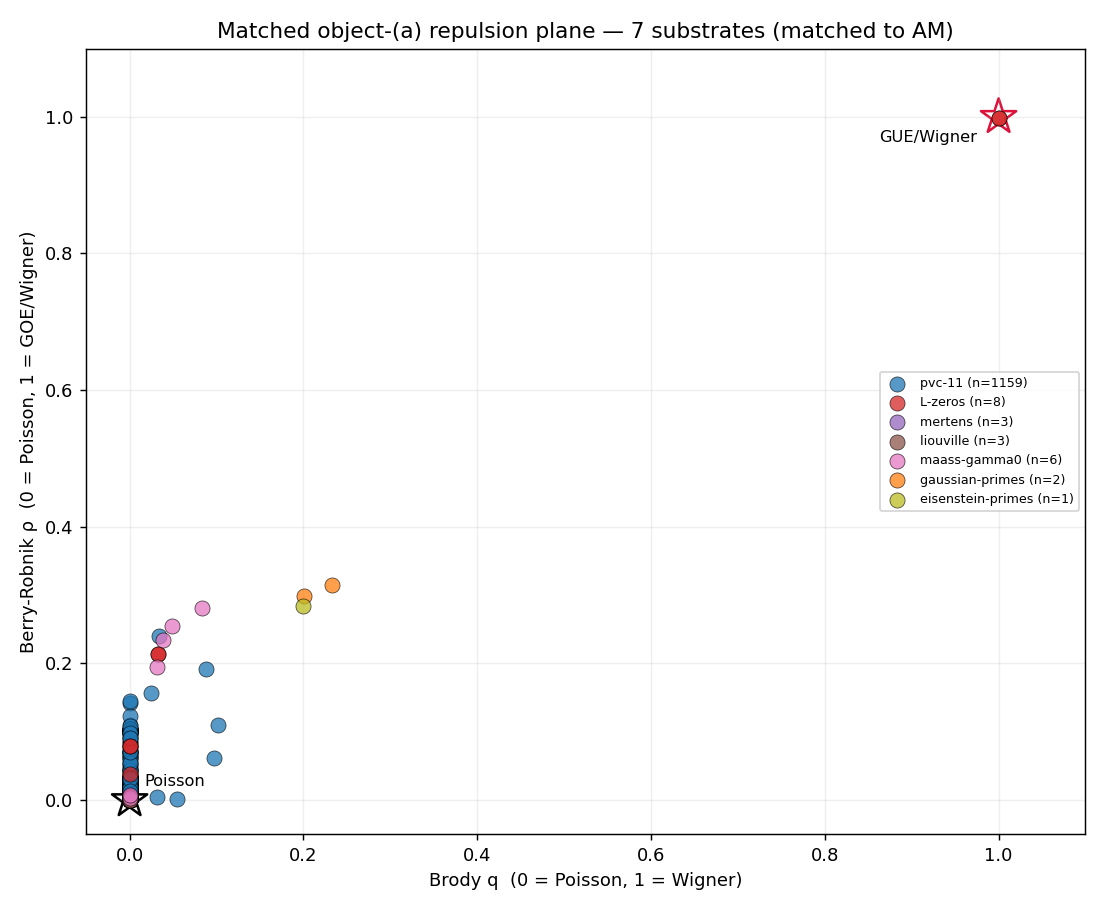
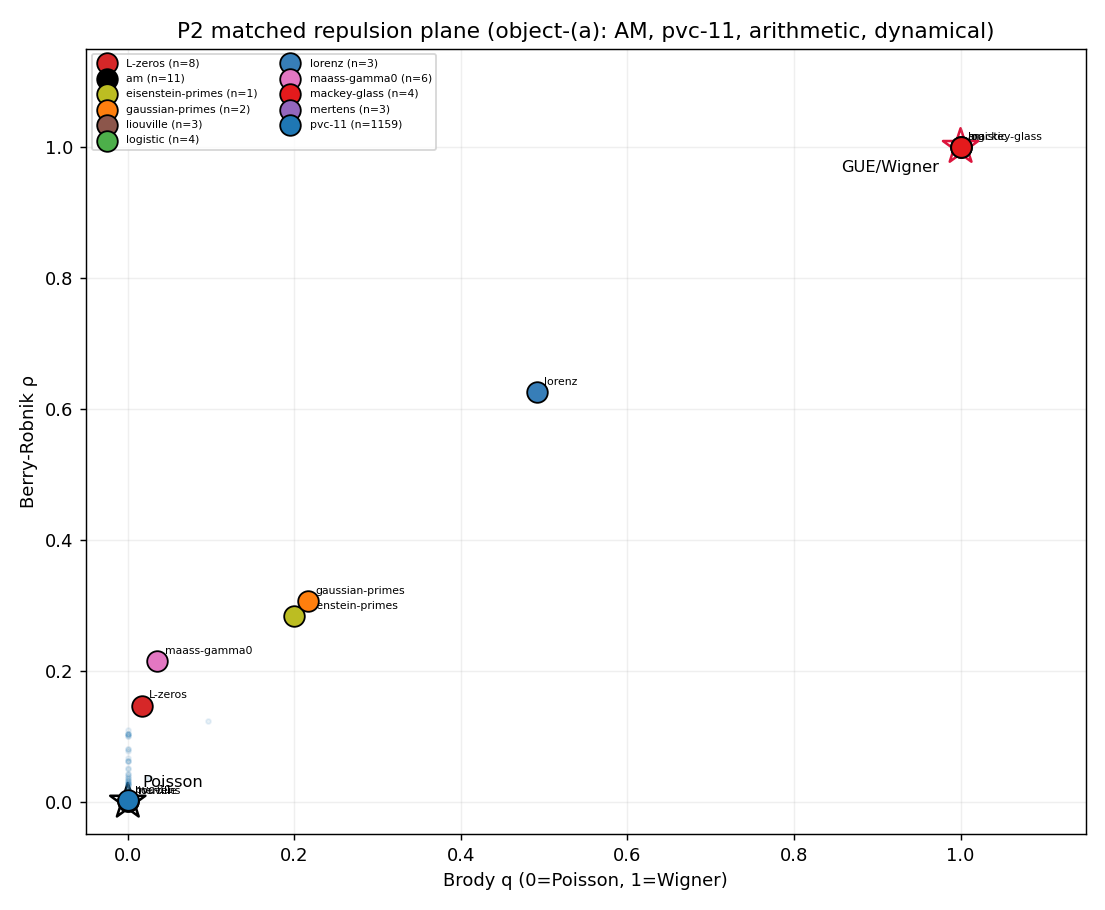
Consolidate: refresh landscape views + report to 14 substrates + Family V
landscape_view.py: auto-discovers all 14 substrates; matched plane now spans 11
(AM/pvc-11/arithmetic/dynamical); new P4 Family-V panel (D2 x W1d chaos-ordered
trajectories). PROGRESS_REPORT updated (14 substrates, Family V result, open
threads; aggregator/MG/Lorenz/logistic marked done). Figures P1-P4 regenerated.

diff --git a/cross_substrate/landscape_view.py b/cross_substrate/landscape_view.py
@@ -1,17 +1,19 @@
 """
-cross_substrate/landscape_view.py — exploratory landscape projections.
+cross_substrate/landscape_view.py — exploratory landscape projections (14 substrates).
 
-Charting, NOT hypothesis-testing (landscape.md §6 anti-hypothesis discipline):
-present multiple projections; do not pick a "winning" viewpoint or interpret
-clusters. Reads coordinates/*.jsonl, prints summary tables, and writes figures
-to cross_substrate/figures/.
+Charting, NOT hypothesis-testing (landscape §6): present multiple projections; do not
+pick a "winning" viewpoint or interpret clusters. Reads coordinates/*.jsonl (auto-
+discovers all substrates), prints summary tables, writes figures to figures/.
+
+No single axis spans all 14 substrates (q-banded I.5q ⊃ ARS-classified; matched W1δ ⊃
+object-(a) substrates; Family V ⊃ time-series substrates). Each projection includes
+whichever substrates carry its axes; the rest are absent by construction, not omitted.
 
 Projections:
-  P1 (universal, all 10 substrates): I.5q (q-banded ks-to-GUE) × ARS.rep_med.
-     The only axes every substrate shares. Pulsar is direct-leg (flagged).
-  P2 (matched, 7 substrates): Brody q × Berry-Robnik ρ — Poisson corner (0,0)
-     ↔ GUE/Wigner corner (1,1). Object-(a), matched to AM.
-  P3 (1D lingua-franca): I.5q strip across all substrates, sorted.
+  P1 universal q-banded: I.5q × ARS.rep_med (ARS-classified substrates).
+  P2 matched repulsion plane: Brody q × BR ρ (object-(a): AM, pvc-11, arithmetic, dynamical).
+  P3 I.5q strip (sorted), ARS-classified.
+  P4 Family V (dynamical): D₂ × W1δ, the chaos-ordered MG/Lorenz/logistic trajectories.
 """
 from __future__ import annotations
 
@@ -23,24 +25,37 @@ import numpy as np
 import matplotlib
 matplotlib.use("Agg")
 import matplotlib.pyplot as plt
+from matplotlib import cm
 
 _HERE = os.path.dirname(os.path.abspath(__file__))
 COORD = os.path.join(_HERE, "coordinates")
 FIGDIR = os.path.join(_HERE, "figures")
 os.makedirs(FIGDIR, exist_ok=True)
 
+_PALETTE = {
+    "pvc-11": "#1f77b4", "allen-np": "#17becf", "kuramoto": "#2ca02c",
+    "pulsar-nanograv": "#7f7f7f", "L-zeros": "#d62728", "mertens": "#9467bd",
+    "liouville": "#8c564b", "maass-gamma0": "#e377c2", "gaussian-primes": "#ff7f0e",
+    "eisenstein-primes": "#bcbd22", "am": "#000000", "mackey-glass": "#e41a1c",
+    "lorenz": "#377eb8", "logistic": "#4daf4a",
+}
+DYNAMICAL = ["mackey-glass", "lorenz", "logistic"]
+
 
 def load_all():
     out = {}
     for f in sorted(glob.glob(os.path.join(COORD, "*.jsonl"))):
-        sub = os.path.basename(f)[:-6]
-        out[sub] = [json.loads(l) for l in open(f)]
+        out[os.path.basename(f)[:-6]] = [json.loads(l) for l in open(f)]
     return out
 
 
 def col(recs, key):
     return np.array([r["axes_computed"].get(key) for r in recs
                      if isinstance(r["axes_computed"].get(key), (int, float))], float)
+
+
+def color(sub, i=0):
+    return _PALETTE.get(sub, cm.tab20(i % 20))
 
 
 def msummary(v):
@@ -50,69 +65,72 @@ def msummary(v):
                 p25=float(np.percentile(v, 25)), p75=float(np.percentile(v, 75)))
 
 
-# ── colours / markers ────────────────────────────────────────────────────────
-COLORS = {
-    "pvc-11": "#1f77b4", "allen-np": "#17becf", "kuramoto": "#2ca02c",
-    "pulsar-nanograv": "#7f7f7f", "L-zeros": "#d62728", "mertens": "#9467bd",
-    "liouville": "#8c564b", "maass-gamma0": "#e377c2",
-    "gaussian-primes": "#ff7f0e", "eisenstein-primes": "#bcbd22",
-}
-MATCHED = ["pvc-11", "L-zeros", "mertens", "liouville", "maass-gamma0",
-           "gaussian-primes", "eisenstein-primes"]
+def has(recs, key):
+    return col(recs, key).size > 0
 
 
 def text_tables(data):
-    print("=" * 78)
-    print("LANDSCAPE VIEW — descriptive projections (no interpretation)")
-    print("=" * 78)
-    print("\n[universal axes — all substrates] median [p25,p75] (n)")
-    print(f"  {'substrate':18s} {'I.5q (ks-GUE)':>20s} {'ARS.rep_med':>20s}")
-    rows = []
-    for sub, recs in data.items():
-        a, b = msummary(col(recs, "I.5q_ks_gue_med")), msummary(col(recs, "ARS.rep_med"))
-        rows.append((sub, a, b))
-    for sub, a, b in sorted(rows, key=lambda r: (r[1]["med"] if r[1] else 9)):
-        fa = f"{a['med']:.3f} [{a['p25']:.2f},{a['p75']:.2f}] ({a['n']})" if a else "-"
-        fb = f"{b['med']:.3f} [{b['p25']:.2f},{b['p75']:.2f}]" if b else "-"
+    print("=" * 84)
+    print(f"LANDSCAPE VIEW — {len(data)} substrates (descriptive, no interpretation)")
+    print("=" * 84)
+    print("\n[q-banded] I.5q (ks-GUE) × ARS.rep_med — ARS-classified substrates")
+    for sub, recs in sorted(data.items(),
+                            key=lambda kv: (msummary(col(kv[1], "I.5q_ks_gue_med")) or {"med": 9})["med"]):
+        a = msummary(col(recs, "I.5q_ks_gue_med"))
+        if not a:
+            continue
+        b = msummary(col(recs, "ARS.rep_med"))
         flag = "  (direct-leg)" if sub == "pulsar-nanograv" else ""
-        print(f"  {sub:18s} {fa:>20s} {fb:>20s}{flag}")
+        print(f"  {sub:18s} I.5q={a['med']:.3f} [{a['p25']:.2f},{a['p75']:.2f}] (n={a['n']})"
+              f"  rep={b['med']:.3f}{flag}" if b else "")
 
-    print("\n[matched object-(a) — 7 substrates] median (n)")
-    print(f"  {'substrate':18s} {'W1δ':>8s} {'Brody q':>8s} {'BR ρ':>8s} "
-          f"{'ks_GUE':>8s} {'ks_Poiss':>9s}")
-    for sub in MATCHED:
-        recs = data[sub]
+    print("\n[matched object-(a)] W1δ / Brody q / BR ρ / ks_GUE — substrates with plain-NNS")
+    for sub, recs in data.items():
+        if not has(recs, "I.1_w1_clock"):
+            continue
         def m(k):
             s = msummary(col(recs, k))
-            return f"{s['med']:.3f}" if s else "-"
-        print(f"  {sub:18s} {m('I.1_w1_clock'):>8s} {m('I.8_brody_q'):>8s} "
-              f"{m('I.9_berry_robnik_rho'):>8s} {m('I.5_ks_gue'):>8s} "
-              f"{m('I.7_ks_poisson'):>9s}")
+            return f"{s['med']:.3f}" if s else "  -  "
+        print(f"  {sub:18s} W1δ={m('I.1_w1_clock')} q={m('I.8_brody_q')} "
+              f"ρ={m('I.9_berry_robnik_rho')} ks_GUE={m('I.5_ks_gue')} (n={len(recs)})")
+
+    print("\n[Family V — dynamical] D₂ / λ₁ — time-series substrates")
+    for sub in DYNAMICAL:
+        recs = data.get(sub, [])
+        for r in recs:
+            a = r["axes_computed"]
+            d2, lam = a.get("V.2_correlation_dim"), a.get("V.1_lyapunov")
+            print(f"  {sub:14s} {r['cell_id'][:22]:22s} "
+                  f"D₂={d2:.2f}" if isinstance(d2, float) else f"  {sub} {r['cell_id']} D₂=NA",
+                  f"λ₁={lam:+.3f}" if isinstance(lam, float) else "λ₁=NA")
 
 
-def fig_universal(data):
-    fig, ax = plt.subplots(figsize=(9, 6.5))
-    for sub, recs in data.items():
-        x = col(recs, "I.5q_ks_gue_med")
-        y = col(recs, "ARS.rep_med")
+def _scatter_medians(ax, data, kx, ky, subs=None):
+    for i, (sub, recs) in enumerate(data.items()):
+        if subs and sub not in subs:
+            continue
+        x, y = col(recs, kx), col(recs, ky)
         n = min(x.size, y.size)
         if n == 0:
             continue
         x, y = x[:n], y[:n]
-        c = COLORS.get(sub, "#333")
-        if n > 50:                      # cloud + centroid for populous substrates
-            idx = np.random.default_rng(0).choice(n, size=min(n, 400), replace=False)
-            ax.scatter(x[idx], y[idx], s=8, alpha=0.12, color=c)
-        ax.scatter([np.median(x)], [np.median(y)], s=140, color=c,
-                   edgecolor="k", zorder=5, label=f"{sub} (n={n})")
-        ax.annotate(sub, (np.median(x), np.median(y)), fontsize=7,
+        c = color(sub, i)
+        if n > 40:
+            idx = np.random.default_rng(0).choice(n, min(n, 300), replace=False)
+            ax.scatter(x[idx], y[idx], s=7, alpha=0.10, color=c)
+        ax.scatter([np.median(x)], [np.median(y)], s=130, color=c, edgecolor="k",
+                   zorder=5, label=f"{sub} (n={n})")
+        ax.annotate(sub, (np.median(x), np.median(y)), fontsize=6,
                     xytext=(4, 4), textcoords="offset points")
-    ax.set_xlabel("I.5q  —  q-banded KS distance to GUE  (← more GUE-like)")
-    ax.set_ylabel("ARS.rep_med  —  repulsion-integral median")
-    ax.set_title("Universal landscape (all 10 substrates) — descriptive, q-banded leg\n"
-                 "pulsar = direct-leg (not q-banded); clouds subsampled")
-    ax.legend(fontsize=6, loc="best", ncol=2)
-    ax.grid(alpha=0.2)
+
+
+def fig_universal(data):
+    fig, ax = plt.subplots(figsize=(9.5, 6.8))
+    _scatter_medians(ax, data, "I.5q_ks_gue_med", "ARS.rep_med")
+    ax.set_xlabel("I.5q — q-banded KS to GUE (← GUE-like)")
+    ax.set_ylabel("ARS.rep_med")
+    ax.set_title("P1 universal (q-banded, ARS-classified substrates)")
+    ax.legend(fontsize=6, ncol=2); ax.grid(alpha=0.2)
     p = os.path.join(FIGDIR, "P1_universal_I5q_vs_rep.png")
     fig.tight_layout(); fig.savefig(p, dpi=130); plt.close(fig)
     return p
@@ -120,28 +138,17 @@ def fig_universal(data):
 
 def fig_matched(data):
     fig, ax = plt.subplots(figsize=(8.5, 7))
-    # reference corners FIRST + hollow, so data points render on top of them
-    ax.scatter([0], [0], marker="*", s=420, facecolor="none", edgecolor="k",
-               linewidth=1.4, zorder=1)
+    ax.scatter([0], [0], marker="*", s=420, facecolor="none", edgecolor="k", lw=1.4, zorder=1)
     ax.annotate("Poisson", (0, 0), fontsize=9, xytext=(8, 8), textcoords="offset points")
-    ax.scatter([1], [1], marker="*", s=420, facecolor="none", edgecolor="crimson",
-               linewidth=1.4, zorder=1)
-    ax.annotate("GUE/Wigner", (1, 1), fontsize=9, xytext=(-66, -14),
-                textcoords="offset points")
-    for sub in MATCHED:
-        recs = data[sub]
-        x = col(recs, "I.8_brody_q")
-        y = col(recs, "I.9_berry_robnik_rho")
-        n = min(x.size, y.size)
-        if n == 0:
-            continue
-        ax.scatter(x[:n], y[:n], s=70, alpha=0.75, color=COLORS.get(sub, "#333"),
-                   edgecolor="k", linewidth=0.4, zorder=5, label=f"{sub} (n={n})")
-    ax.set_xlabel("Brody q  (0 = Poisson, 1 = Wigner)")
-    ax.set_ylabel("Berry-Robnik ρ  (0 = Poisson, 1 = GOE/Wigner)")
-    ax.set_title("Matched object-(a) repulsion plane — 7 substrates (matched to AM)")
-    ax.set_xlim(-0.05, 1.1); ax.set_ylim(-0.05, 1.1)
-    ax.legend(fontsize=7, loc="center right"); ax.grid(alpha=0.2)
+    ax.scatter([1], [1], marker="*", s=420, facecolor="none", edgecolor="crimson", lw=1.4, zorder=1)
+    ax.annotate("GUE/Wigner", (1, 1), fontsize=9, xytext=(-66, -14), textcoords="offset points")
+    matched = [s for s, r in data.items() if has(r, "I.8_brody_q")]
+    _scatter_medians(ax, data, "I.8_brody_q", "I.9_berry_robnik_rho", subs=matched)
+    ax.set_xlabel("Brody q (0=Poisson, 1=Wigner)")
+    ax.set_ylabel("Berry-Robnik ρ")
+    ax.set_title("P2 matched repulsion plane (object-(a): AM, pvc-11, arithmetic, dynamical)")
+    ax.set_xlim(-0.05, 1.15); ax.set_ylim(-0.05, 1.15)
+    ax.legend(fontsize=6, ncol=2); ax.grid(alpha=0.2)
     p = os.path.join(FIGDIR, "P2_matched_brody_vs_BR.png")
     fig.tight_layout(); fig.savefig(p, dpi=130); plt.close(fig)
     return p
@@ -149,25 +156,46 @@ def fig_matched(data):
 
 def fig_strip(data):
     fig, ax = plt.subplots(figsize=(9, 5.5))
-    items = []
-    for sub, recs in data.items():
-        v = col(recs, "I.5q_ks_gue_med")
-        if v.size:
-            items.append((sub, v))
+    items = [(s, col(r, "I.5q_ks_gue_med")) for s, r in data.items()
+             if col(r, "I.5q_ks_gue_med").size]
     items.sort(key=lambda kv: np.median(kv[1]))
     for i, (sub, v) in enumerate(items):
-        jitter = (np.random.default_rng(1).random(min(v.size, 300)) - 0.5) * 0.3
         vv = v if v.size <= 300 else v[np.random.default_rng(2).choice(v.size, 300, replace=False)]
-        ax.scatter(vv, np.full(vv.size, i) + jitter, s=10, alpha=0.3,
-                   color=COLORS.get(sub, "#333"))
-        ax.scatter([np.median(v)], [i], s=120, color=COLORS.get(sub, "#333"),
-                   edgecolor="k", zorder=5)
-    ax.set_yticks(range(len(items)))
-    ax.set_yticklabels([s for s, _ in items])
-    ax.set_xlabel("I.5q — q-banded KS distance to GUE  (← GUE-like ........ far-from-GUE →)")
-    ax.set_title("Lingua-franca strip: I.5q across all substrates (sorted by median)")
-    ax.grid(alpha=0.2, axis="x")
+        jit = (np.random.default_rng(1).random(vv.size) - 0.5) * 0.3
+        ax.scatter(vv, np.full(vv.size, i) + jit, s=9, alpha=0.3, color=color(sub, i))
+        ax.scatter([np.median(v)], [i], s=110, color=color(sub, i), edgecolor="k", zorder=5)
+    ax.set_yticks(range(len(items))); ax.set_yticklabels([s for s, _ in items])
+    ax.set_xlabel("I.5q — q-banded KS to GUE (← GUE-like ...... far →)")
+    ax.set_title("P3 lingua-franca strip: I.5q (sorted)"); ax.grid(alpha=0.2, axis="x")
     p = os.path.join(FIGDIR, "P3_I5q_strip.png")
+    fig.tight_layout(); fig.savefig(p, dpi=130); plt.close(fig)
+    return p
+
+
+def fig_familyV(data):
+    """Dynamical sub-landscape: D₂ × W1δ, per-cell, chaos-ordered trajectories."""
+    fig, ax = plt.subplots(figsize=(8.5, 6.5))
+    for i, sub in enumerate(DYNAMICAL):
+        recs = data.get(sub, [])
+        pts = [(r["axes_computed"].get("V.2_correlation_dim"),
+                r["axes_computed"].get("I.1_w1_clock"), r["cell_id"])
+               for r in recs]
+        pts = [(d, w, c) for d, w, c in pts if isinstance(d, (int, float))]
+        if not pts:
+            continue
+        d2 = [p[0] for p in pts]
+        w1 = [p[1] if isinstance(p[1], (int, float)) else 0.0 for p in pts]
+        ax.plot(d2, w1, "-", color=color(sub, i), alpha=0.4, zorder=1)
+        ax.scatter(d2, w1, s=80, color=color(sub, i), edgecolor="k", lw=0.4,
+                   zorder=3, label=sub)
+        for d, w, c in pts:
+            ax.annotate(c.split("_", 1)[-1][:10], (d, w if isinstance(w, (int, float)) else 0),
+                        fontsize=5, xytext=(3, 3), textcoords="offset points")
+    ax.set_xlabel("V.2 correlation dimension D₂ (→ higher-D chaos)")
+    ax.set_ylabel("W1δ (peak/event-interval NNS, → broader)")
+    ax.set_title("P4 Family V — dynamical sub-landscape (chaos-ordered trajectories)")
+    ax.legend(fontsize=8); ax.grid(alpha=0.2)
+    p = os.path.join(FIGDIR, "P4_familyV_dynamical.png")
     fig.tight_layout(); fig.savefig(p, dpi=130); plt.close(fig)
     return p
 
@@ -175,8 +203,8 @@ def fig_strip(data):
 def main():
     data = load_all()
     text_tables(data)
-    figs = [fig_universal(data), fig_matched(data), fig_strip(data)]
-    print("\nfigures written:")
+    figs = [fig_universal(data), fig_matched(data), fig_strip(data), fig_familyV(data)]
+    print("\nfigures:")
     for p in figs:
         print("  " + os.path.relpath(p, _HERE))
 

diff --git a/cross_substrate/PROGRESS_REPORT.md b/cross_substrate/PROGRESS_REPORT.md
@@ -14,7 +14,7 @@ placed in a shared universality-class landscape; the yield is the cross-substrat
 *comparison*, not utility-extraction from any one substrate. Explorer-shaped
 (charting, not hypothesis-testing).
 
-## 2. What's populated (11 substrates, ~8,300 coordinate records)
+## 2. What's populated (14 substrates, ~8,300 coordinate records)
 
 | substrate | cells | leg(s) | notes |
 |---|--:|---|---|
@@ -27,9 +27,14 @@ placed in a shared universality-class landscape; the yield is the cross-substrat
 | Gaussian / Eisenstein primes | 2 / 1 | q-banded + matched | |
 | Maass Γ₀(N) | 6 | q-banded + matched | |
 | Pulsar (NANOGrav) | 10 | direct-leg | cross-domain bounded |
+| **Mackey-Glass** | 5 | matched + Family V | τ-sweep trajectory; peak-NNS |
+| **Lorenz** | 4 | matched + Family V | ρ-sweep trajectory; lobe-NNS |
+| **Logistic** | 5 | matched + Family V | r-sweep (period-doubling); IEI-NNS; analytic λ |
 
 Families computed: I (NNS distances I.1–I.9), II (Σ²/Δ₃/K), III (RF, where banked),
-VI (extraction-meta α/β), VII (inter-leg disagreement). IV/V deferred.
+**V (dynamical λ₁/D₂ — the 3 dynamical substrates)**, VI (extraction-meta α/β/cross-extract),
+VII (inter-leg disagreement). IV (spectral character) deferred. No single axis spans all
+14 (q-banded I.5q ⊃ ARS-classified; matched W1δ ⊃ object-(a); Family V ⊃ time-series).
 
 ## 3. Load-bearing results
 
@@ -61,6 +66,15 @@ fingerprint, VI.2 β≈2.87). θ-class: **sup carries θ-structure** (Brody q go
 RESOLVED — that 3.55× is a ratio of clock-floor (~1e-4) micro-spreads; sub is
 θ-invariant in magnitude (reproduced 3.556 / mean_ratio 1.0003). No inversion.
 
+**(f) Dynamical substrates + Family V (breadth).** Mackey-Glass, Lorenz, logistic each
+placed as a bifurcation-sweep *trajectory* (stable→periodic→chaotic), giving the landscape
+its first dynamical axes. **V.2 D₂ (correlation dimension) is validated everywhere** (Lorenz
+ρ=28→2.21 vs lit 2.06; MG chaotic→2.3–2.4; logistic chaos→1.0). **V.1 λ: analytic-for-maps
+is exact** (logistic r=3.7→+0.356; period-3 window r=3.83→−0.370, correctly λ<0 inside chaos),
+**Rosenstein-for-flows is sign-valid but ~7× magnitude-inflated** (consistent factor →
+calibratable; banked as chaos-sign indicator). The three sit as chaos-ordered trajectories
+in the D₂×W1δ plane (figure P4).
+
 ## 4. Methodology established
 
 Matched-instrument across compared legs (carry every viewpoint, annotate
@@ -80,11 +94,18 @@ discipline (the Phase-35 3.55× lesson).
 
 ## 6. Open threads
 
-- **Aggregator perf** — single-threaded Family II (Δ₃/Σ²) ~17 min/cell; parallelize +
-  cache (next task).
+- **Rosenstein-λ calibration** — V.1 for flows is ~7× magnitude-inflated (consistent across
+  MG+Lorenz); tune fit-region/units so it's absolute, not just sign. (Analytic-λ for maps
+  already exact.)
 - **L-zeros split** — separate ζ (GUE) from Dirichlet/EC (Poisson-leaning) in §3.
 - **Math-path** — derive the condition the sup θ / OSI inter-leg gap depends on
   (across-band-skew ruled out as primary).
-- **Breadth** — Mackey-Glass (Family V dynamical axes), FM/brocot.fm.
+- **Breadth** — FM/brocot.fm (Will's own substrate) remains; Family V on Kuramoto
+  (it has an order-parameter trajectory).
 - **AM** — sub-side at converged L (currently non-converged); slate-4 N-trajectory
   (multi-day).
+
+*Done since v1:* aggregator fixed (~200× via capped Family-II windows); Family-II
+consistency re-run (all matched substrates on one algorithm); Mackey-Glass + Lorenz +
+logistic added with validated Family V; AM θ-class extension; views refreshed to 14
+substrates (figures P1–P4).
